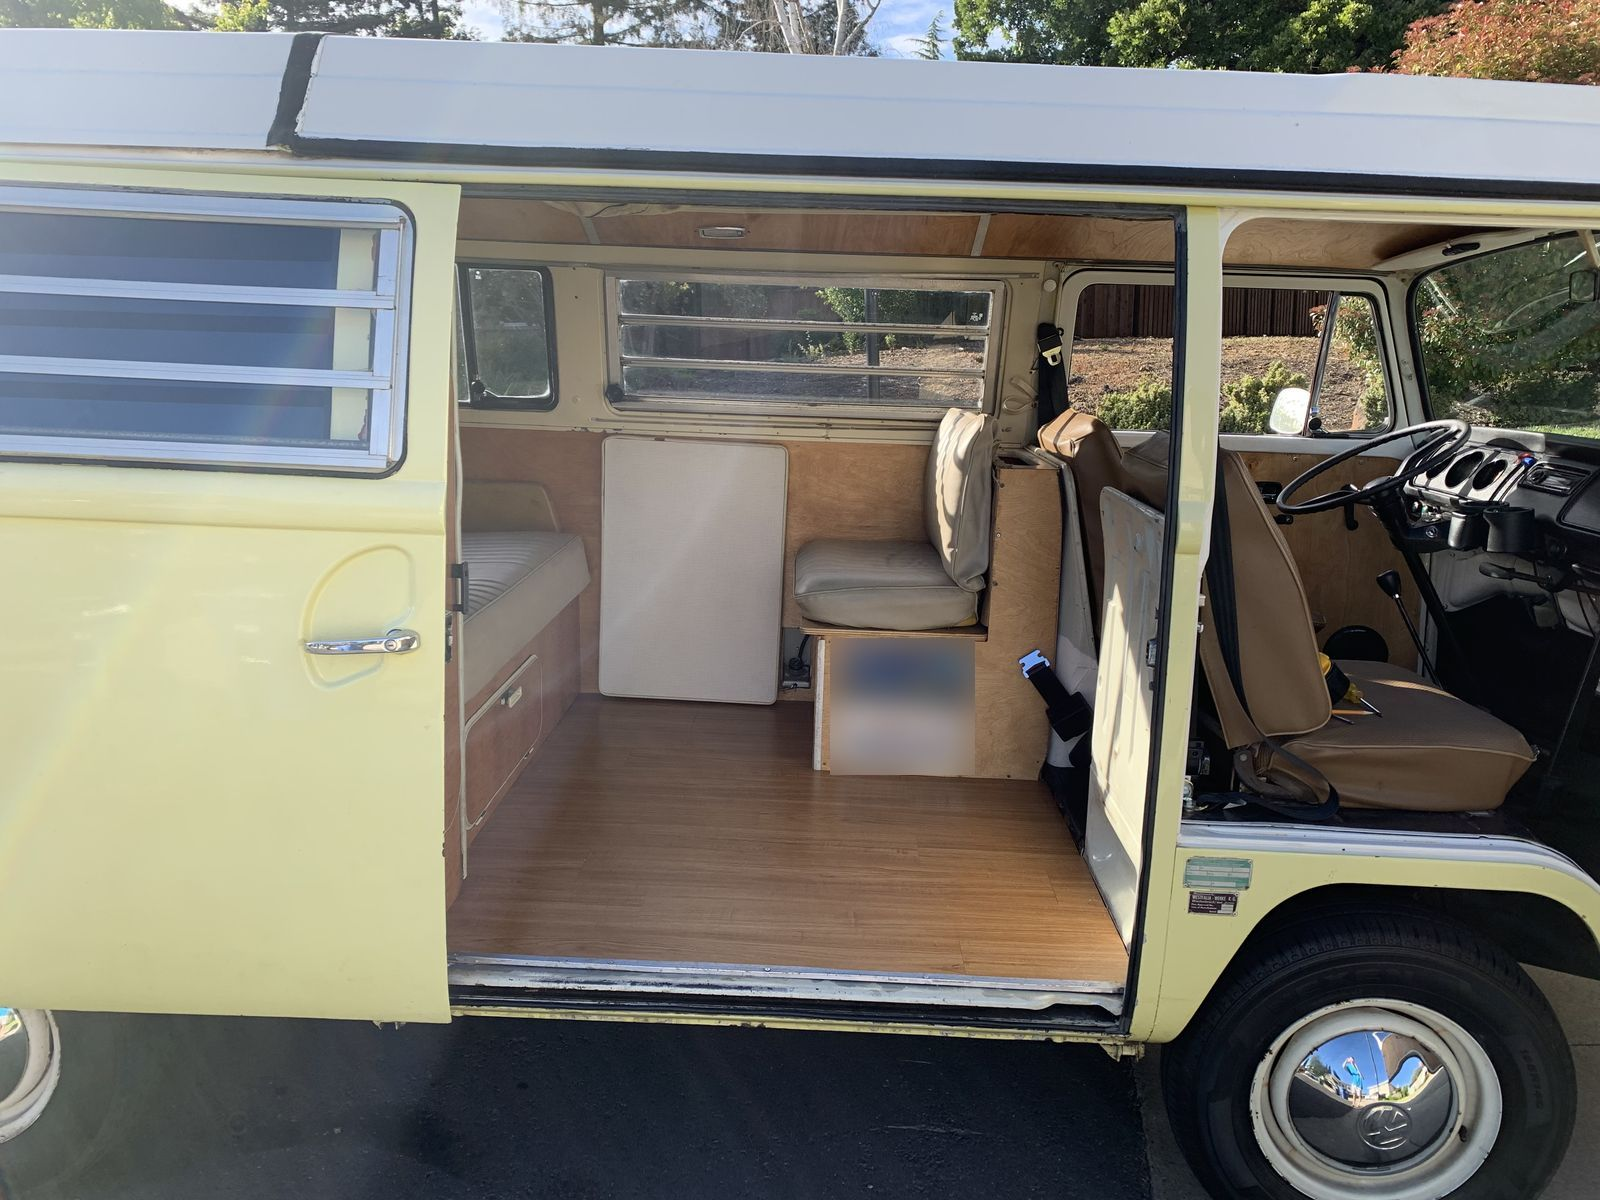
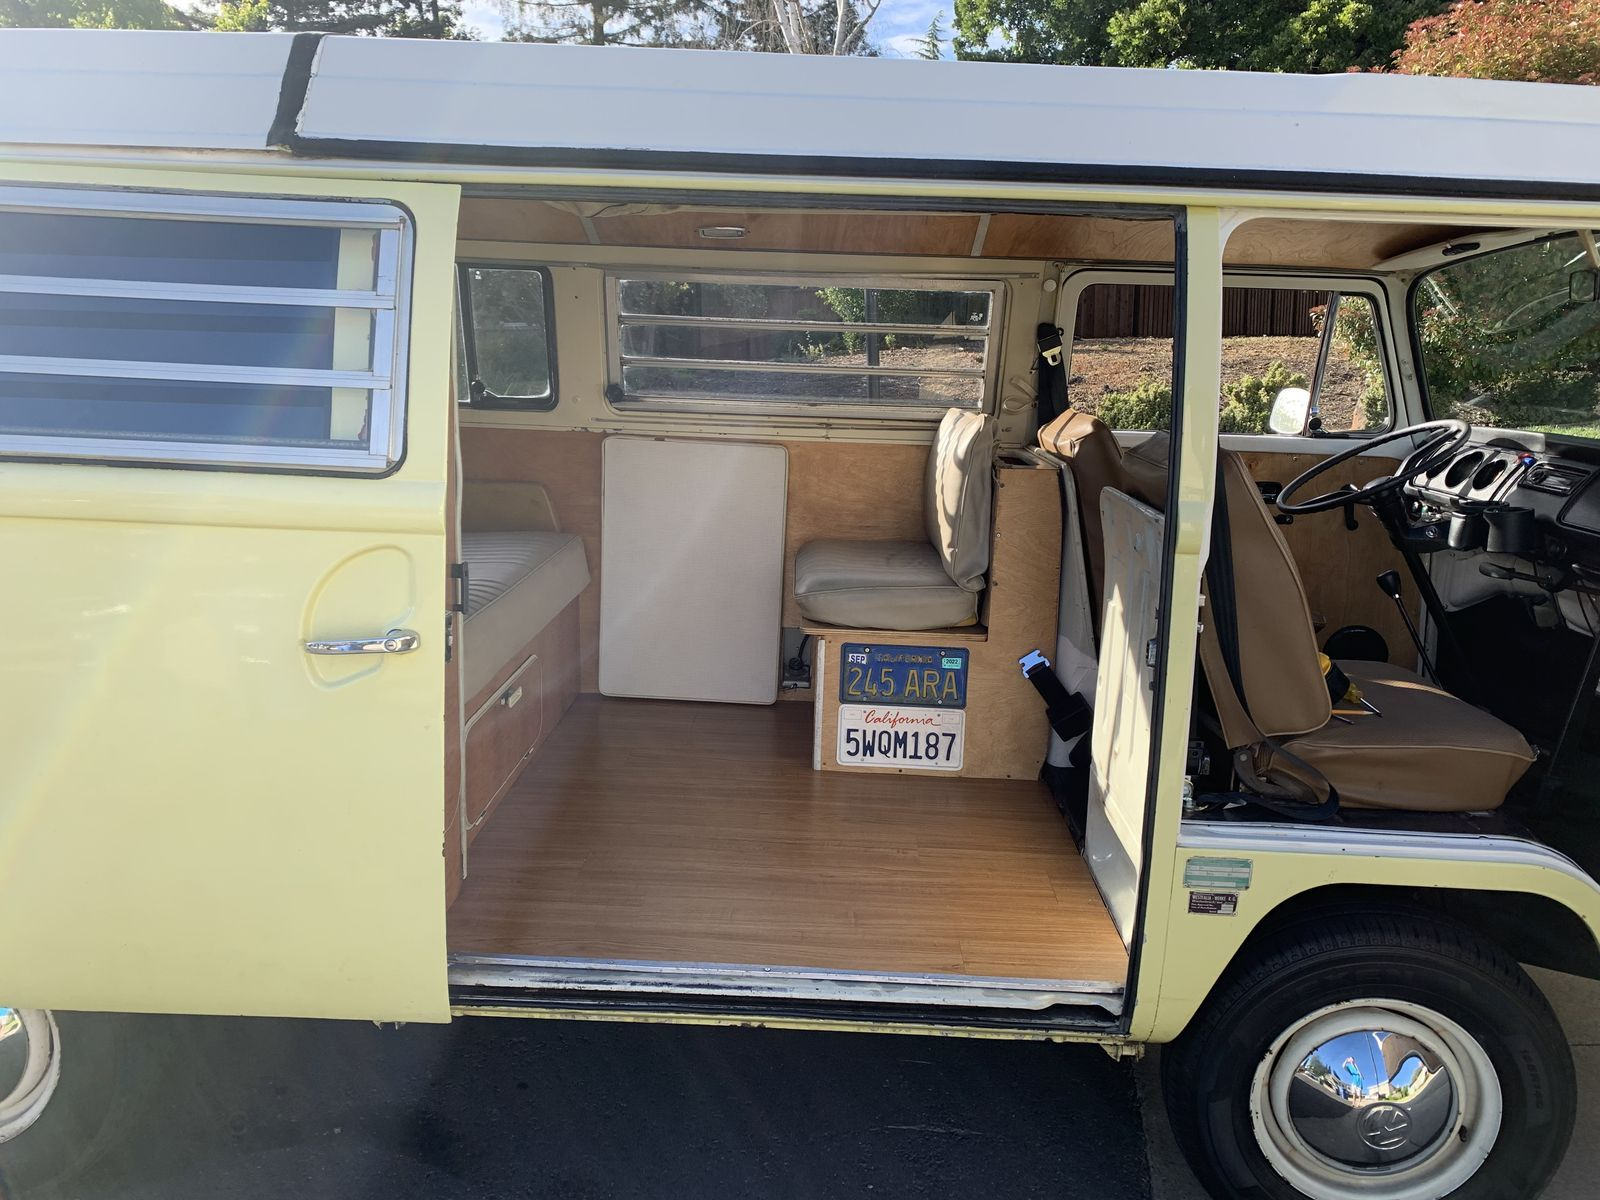
VW bus: add the new engine photo, unblur plates, running-condition wording

Changed region(s): [[0.5, 0.5242, 0.625, 0.6475]]

diff --git a/src/content/projects.ts b/src/content/projects.ts
@@ -332,6 +332,7 @@ export const projects: Project[] = [
       { src: "/images/projects/vw-bus-headliner.jpg", alt: "Our wooden headliner panels being shaped on sawhorses in the garage" },
       { src: "/images/projects/vw-bus-brakes.jpg", alt: "A brake shoe and hardware laid out during the brake job" },
       { src: "/images/projects/vw-bus-engine-out.jpg", alt: "The back of the bus in the garage with the engine removed and tools on the floor" },
+      { src: "/images/projects/vw-bus-engine.jpg", alt: "The replacement engine installed, seen from the back of the bus, with its new stainless exhaust" },
       { src: "/images/projects/vw-bus-interior.jpg", alt: "The finished rear seat, cabinets, and wood-look floor inside the bus" },
       {
         src: "/images/projects/vw-bus-interior-door.jpg",
@@ -339,14 +340,14 @@ export const projects: Project[] = [
       },
     ],
     detail: {
-      lede: "My dad used to see Grateful Dead shows in his friend's '70s VW bus, and I was getting really into the Dead myself, so in 2021 we bought a 1970 bus as a COVID project to work on together. We've done almost all of it ourselves, and it's now drivable around town.",
+      lede: "My dad used to see Grateful Dead shows in his friend's '70s VW bus, and I was getting really into the Dead myself, so in 2021 we bought a 1970 bus as a COVID project to work on together. We've done almost all of it ourselves, and it's now in good running condition.",
       facts: [
         { label: "My role", value: "Restoring it with my dad, almost entirely ourselves" },
         { label: "Started", value: "2021, still ongoing" },
-        { label: "Status", value: "Drivable: around town, and trips to Santa Cruz and San Francisco" },
+        { label: "Status", value: "In good running condition" },
       ],
       highlights: [
-        "Started with zero knowledge and learned almost everything from the internet; only specialized jobs like diagnosing and reconfiguring the door locks went to a shop",
+        "Started with zero knowledge and learned almost everything from the internet; only specialized jobs like reconfiguring the door locks went to a shop",
         "Swapped in the engine and transmission from another bus, since the original engine had very bad compression and leakdown and needed a full rebuild, and the transmission had major leaks. The new engine is a lot more powerful than the original",
         "Added oil pressure and cylinder head temperature gauges, powered off the accessory fuse and wired to the engine for readings",
         "Taken it on longer trips too, including Santa Cruz a couple of times and San Francisco",
@@ -361,7 +362,7 @@ export const projects: Project[] = [
         "Gauges: oil pressure and cylinder head temperature",
         "Suspension and tires: new shocks and new tires",
         "Electrical: redid the dash wiring",
-        "Clutch cable and door locks replaced",
+        "Clutch cable and door locks replaced, with the locks matched to one key",
       ],
       learned: [
         "Troubleshooting issues on an old car",
